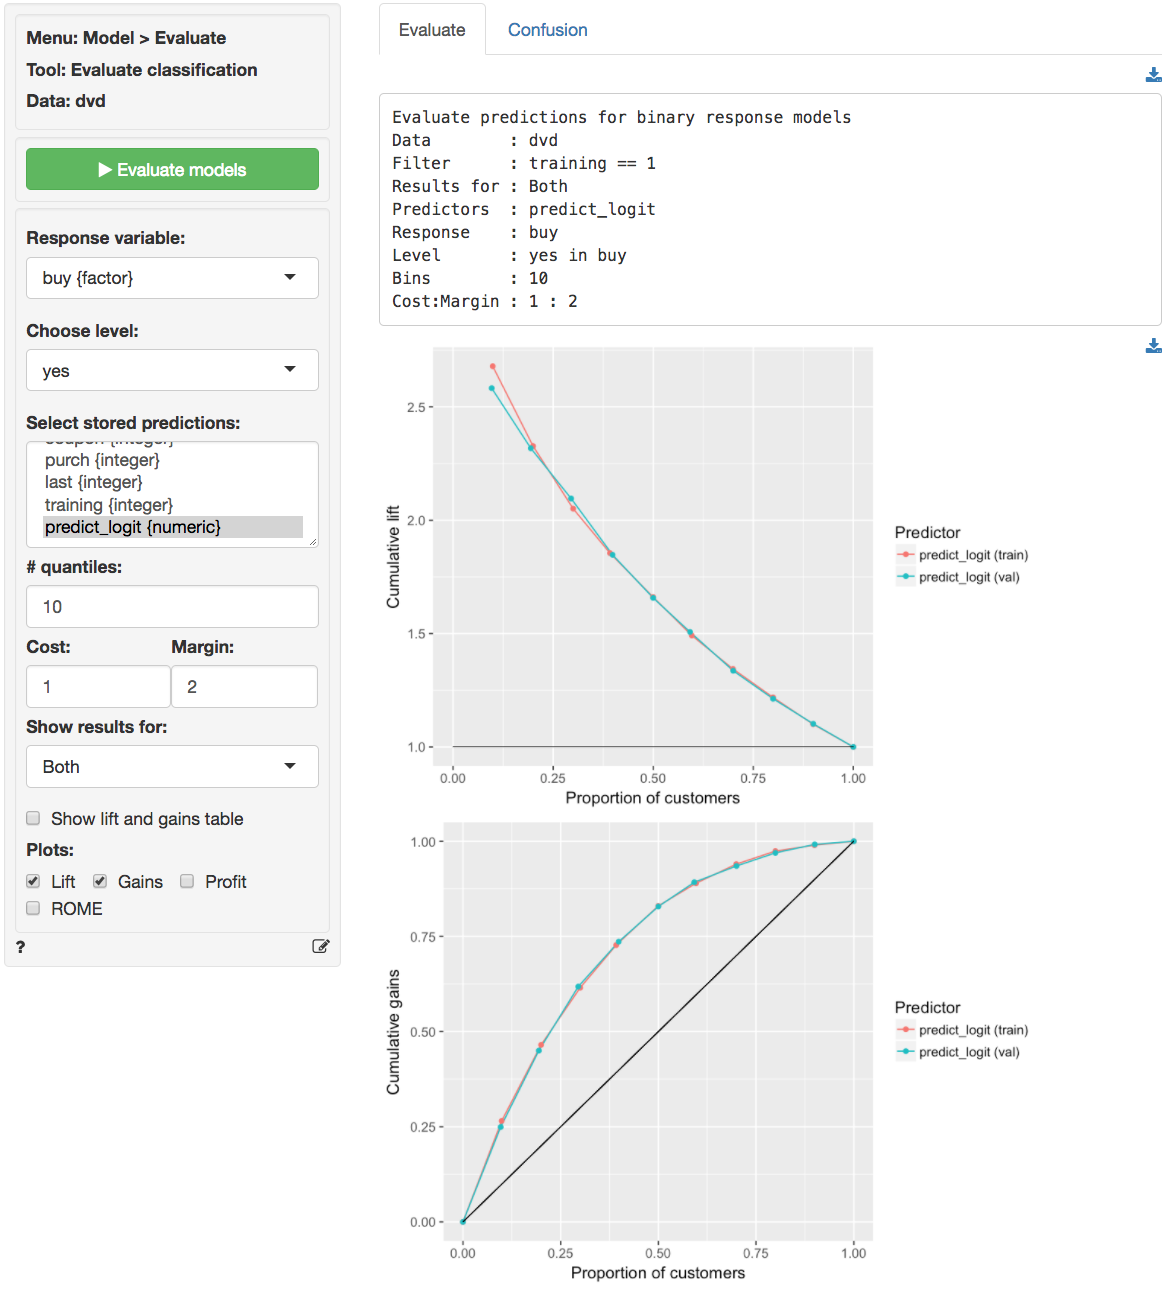
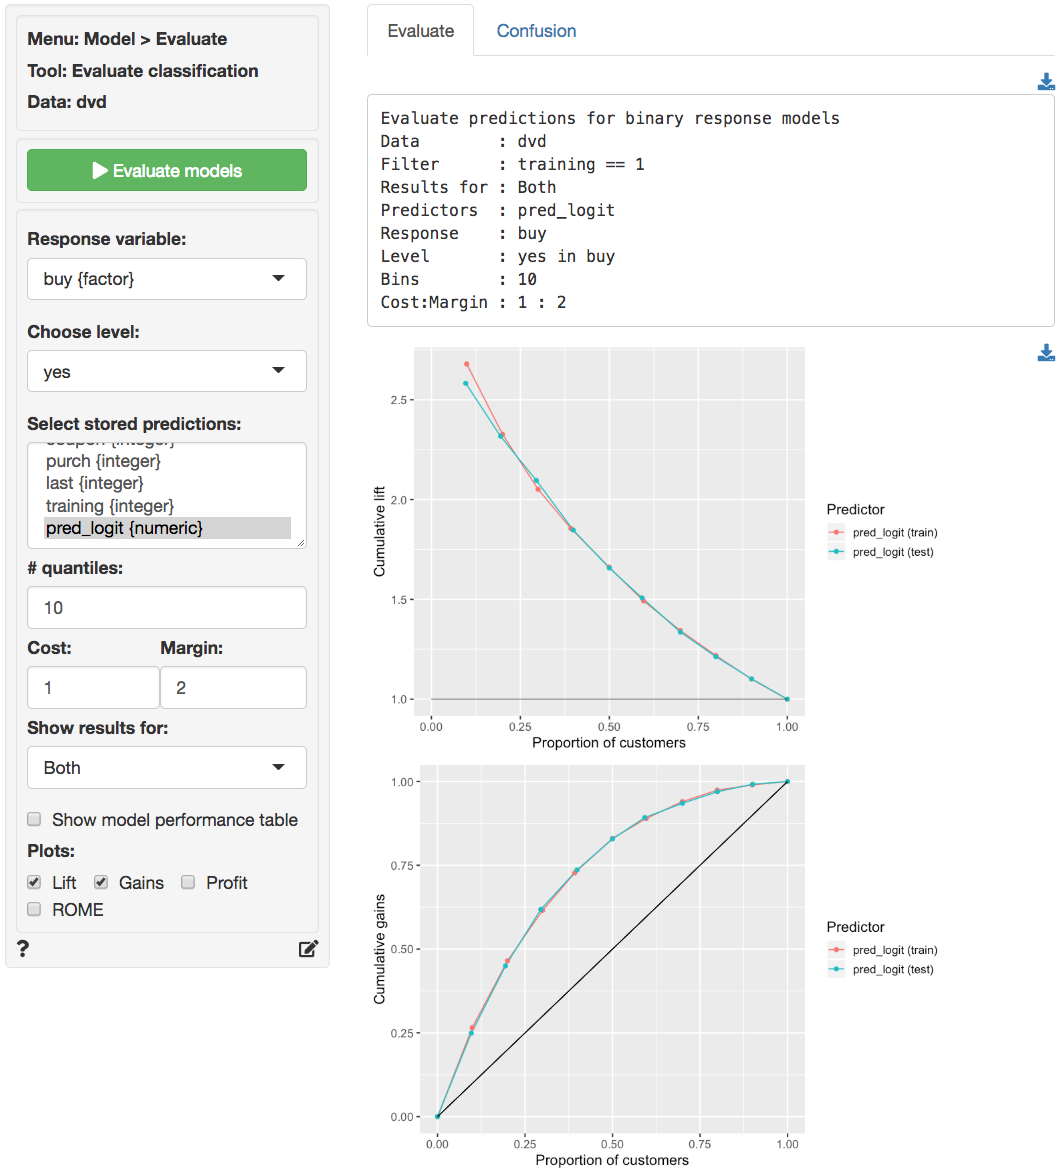
use test

diff --git a/inst/app/tools/help/evalbin.md b/inst/app/tools/help/evalbin.md
@@ -22,7 +22,7 @@ To use the `Profit` and `ROME` (Return on Marketing Expenditures) charts, enter 
 
 #### Show results for
 
-If a `filter` is active (e.g., set in the _Data > View_ tab) generate results for `All` data, `Training` data, `Validation` data, or `Both` training and validation data. If no filter is active calculations are applied to all data.
+If a `filter` is active (e.g., set in the _Data > View_ tab) generate results for `All` data, `Training` data, `Test` data, or `Both` training and test data. If no filter is active calculations are applied to all data.
 
 #### Plots
 
@@ -98,7 +98,7 @@ The Lift and Gains charts below show little evidence of overfitting and suggest 
 
 <p align="center"><img src="figures_model/evalbin_lift_gains.png"></p>
 
-<!-- This insight is confirmed by looking at the confusion matrix. The True Positive Rate in the training and validation sample are 94.0% and 93.4% respectively.
+<!-- This insight is confirmed by looking at the confusion matrix. The True Positive Rate in the training and test sample are 94.0% and 93.4% respectively.
 
 <p align="center"><img src="figures_model/evalbin_confusion.png"></p>
 -->

diff --git a/inst/app/tools/help/evalreg.md b/inst/app/tools/help/evalreg.md
@@ -12,7 +12,7 @@ Select one or more variables that can be used to _predict_ the value of the resp
 
 #### Show results for
 
-If a `filter` is active (e.g., set in the _Data > View_ tab) generate results for `All` data, `Training` data, `Validation` data, or `Both` training and validation data. If no filter is active calculations are applied to all data.
+If a `filter` is active (e.g., set in the _Data > View_ tab) generate results for `All` data, `Training` data, `Test` data, or `Both` training and test data. If no filter is active calculations are applied to all data.
 
 ## Example
 

diff --git a/NEWS.md b/NEWS.md
@@ -1,8 +1,9 @@
-# radiant.model 0.9.8.4
+# radiant.model 0.9.8.5
 
 * Fix to download tables from _Model > Evaluate classificiation_
 * Use an expandable `shinyAce` input for the formula and function inputs in _Model > Simulate_
 * Fixes for repeated simulation with grid-search
+* Use `test` instead of `validation` 
 
 # radiant.model 0.9.8.0
 
